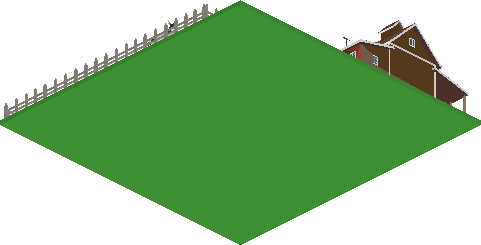
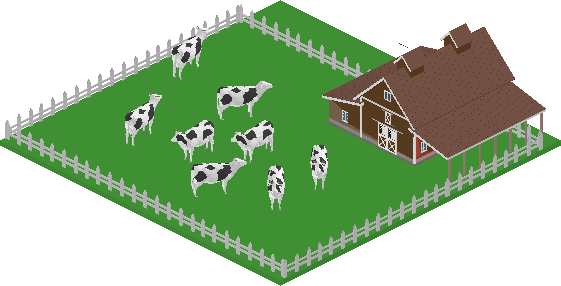
## Farm Sprites Fixed - Root cause: the old render script used matplotlib's projection for depth, which isn't a real camera distance — so the flat green ground drew *over* the barn, fences, and animals (making farms look worse each time). - I rewrote the render pipeline with a proper isometric camer
Please reload Expo Go and build/tap a farm to confirm it looks right on the map.

- Next Action Items:
  - **Restock Warning**: Flag in the Economy panel when a city factory will run out of resources next turn so you can react in time
  - **Recenter Button**: Add a quick button that snaps the camera back to your capital any time during a turn
  - **Building Info Tap**: Let players tap any building on the map to pop a quick info card, not just factories
  - **Factory Skyline**: Give active city factories a subtle puff of smoke so a busy economy feels alive

Note:
- Once you deploy your app to production, you can generate iOS and Android builds, then publish to the App/Play store.
- For iOS builds: you need an Apple developer account. After logging in you can generate a build, submit to TestFlight, and test on a real iOS device.
- For Android builds: we provide .APK and .AAB files so you can test on a real Android device.
- Your deployed app is also accessible on Expo Go via a QR code on the deployment panel.
- If you change code via the agent, redeploy and regenerate builds to reflect the latest changes (redeploy is free).

Emergent-Commit-Key: 24b981331cb72eab13af0696cf259c324961099299093cfbeab670246c7160bf

diff --git a/frontend/scripts/render_farms.py b/frontend/scripts/render_farms.py
@@ -1,26 +1,26 @@
 #!/usr/bin/env python3
-"""Render the world-map farm models (wheat/horse/bull) to 2D isometric sprites,
-matching the unit/building pipeline (ortho, elev=30, azim=-45). Vertex colours
-(COLOR_0) are kept as-is. Unlike city buildings, the ground field/base IS kept so
-each farm reads as a little plot sitting on the grass tile.
-Output: assets/images/farms/<name>.png
+"""Render the world-map farm models (wheat/horse/bull) to 2D isometric sprites.
+
+Unlike the older version, this uses a SELF-COMPUTED orthographic isometric camera
+(manual right/up/forward basis) so per-pixel depth is a real camera distance. That
+fixes the bug where matplotlib's projection "z" was not a reliable depth, letting the
+big flat green ground quad draw OVER the barn / fences / animals.
+
+The whole plot (green pasture + white fence + barn + animals) is kept so each farm
+reads exactly like the reference renders. Per-vertex colours (COLOR_0) are used as-is.
+Output: assets/images/farms/<name>.png  + meta.json (footprint fractions for 1x1 grid).
 """
 import os, json, struct
 import numpy as np
-import matplotlib
-matplotlib.use("Agg")
-import matplotlib.pyplot as plt
-from mpl_toolkits.mplot3d.art3d import Poly3DCollection
-from mpl_toolkits.mplot3d import proj3d
 from PIL import Image
 
 BASE = "/tmp/model"
 ASSETS = os.path.join(os.path.dirname(__file__), "..", "assets", "images", "farms")
 MODELS = ["wheat_farm", "horse_farm", "bullfarm"]
-# A few models have a big soil/ground quad that occludes their sparse detail geometry from the
-# top-down iso view; paint the whole plot its signature colour so it reads correctly.
-FIELD_COLOR = {"wheat_farm": [1.0, 0.78, 0.12]}
-NEUTRAL = np.array([0.62, 0.6, 0.56])
+
+ELEV, AZIM = 30.0, -45.0          # match the rest of the sprite pipeline (2:1 iso)
+PAD = 8                            # px padding around the model
+TARGET = 560                      # target longest screen dimension (px)
 
 COMP = {5120: ("b", 1), 5121: ("B", 1), 5122: ("h", 2), 5123: ("H", 2), 5125: ("I", 4), 5126: ("f", 4)}
 NUM = {"SCALAR": 1, "VEC2": 2, "VEC3": 3, "VEC4": 4}
@@ -52,7 +52,7 @@ def load(name):
         if "scale" in node: S = np.eye(4); S[0, 0], S[1, 1], S[2, 2] = node["scale"]; M = M @ S
         return M
 
-    tris = []; cols = []; hasc = []
+    tris = []; cols = []
     sc = d.get("scenes", [{}])[d.get("scene", 0)]
 
     def walk(ni, par):
@@ -64,61 +64,44 @@ def load(name):
                 col = acc(p["attributes"]["COLOR_0"])[:, :3] if has else np.ones((len(pos), 3))
                 wp = (wm @ np.column_stack([pos, np.ones(len(pos))]).T).T[:, :3]
                 idx = acc(p["indices"]).astype(int).ravel()
-                for f in range(0, len(idx), 3):
-                    a, b, c = idx[f], idx[f + 1], idx[f + 2]
-                    tris.append(wp[[a, b, c]]); cols.append(col[[a, b, c]].mean(0)); hasc.append(has)
+                a = idx[0::3]; b = idx[1::3]; c = idx[2::3]
+                n = min(len(a), len(b), len(c))
+                t = np.stack([wp[a[:n]], wp[b[:n]], wp[c[:n]]], axis=1)     # (F,3,3)
+                cc = (col[a[:n]] + col[b[:n]] + col[c[:n]]) / 3.0            # (F,3)
+                tris.append(t); cols.append(cc)
         for ch in node.get("children", []): walk(ch, wm)
 
     for ni in sc.get("nodes", []): walk(ni, np.eye(4))
-    tris = np.array(tris); cols = np.array(cols); hasc = np.array(hasc)
-    R = np.column_stack([tris.reshape(-1, 3)[:, 0], tris.reshape(-1, 3)[:, 2], tris.reshape(-1, 3)[:, 1]]).reshape(tris.shape)
-    mn = R.reshape(-1, 3).min(0); mx = R.reshape(-1, 3).max(0)
-    R[:, :, 0] -= (mn[0] + mx[0]) / 2; R[:, :, 1] -= (mn[1] + mx[1]) / 2; R[:, :, 2] -= mn[2]
-    return R, cols, hasc
+    tris = np.concatenate(tris, 0); cols = np.concatenate(cols, 0)
+    # gltf is Y-up; convert to Z-up (newX=x, newY=z, newZ=y) then rest on z=0
+    R = np.stack([tris[:, :, 0], tris[:, :, 2], tris[:, :, 1]], axis=2)
+    flat = R.reshape(-1, 3)
+    mn = flat.min(0); mx = flat.max(0)
+    R[:, :, 0] -= (mn[0] + mx[0]) / 2
+    R[:, :, 1] -= (mn[1] + mx[1]) / 2
+    R[:, :, 2] -= mn[2]
+    return R, cols
 
 
-def is_blank(c):
-    return bool(np.all(np.abs(c - 0.8) < 0.03))
+def camera_basis():
+    er, ar = np.radians(ELEV), np.radians(AZIM)
+    cam = np.array([np.cos(er) * np.cos(ar), np.cos(er) * np.sin(ar), np.sin(er)])  # points toward camera
+    cam /= np.linalg.norm(cam)
+    right = np.cross(np.array([0.0, 0.0, 1.0]), cam); right /= np.linalg.norm(right)
+    up = np.cross(cam, right); up /= np.linalg.norm(up)
+    return right, up, cam
 
 
-def project(R, L):
-    """Return per-vertex pixel coords (top-left origin) + depth, plus the axes/fig for the
-    footprint helper. Uses matplotlib ONLY for the ortho iso projection matrix."""
-    fig = plt.figure(figsize=(5, 5), dpi=120)
-    ax = fig.add_axes([0, 0, 1, 1], projection="3d")
-    ax.set_xlim(-L / 2, L / 2); ax.set_ylim(-L / 2, L / 2); ax.set_zlim(0, L)
-    ax.set_box_aspect((1, 1, 1)); ax.view_init(elev=30, azim=-45); ax.set_axis_off()
-    try:
-        ax.set_proj_type("ortho")  # 2:1 isometric to match the world grid
-    except Exception:
-        pass
-    fig.canvas.draw()
-    M = ax.get_proj()
-    W, H = fig.canvas.get_width_height()
-    V = R.reshape(-1, 3)
-    xs, ys, zs = proj3d.proj_transform(V[:, 0], V[:, 1], V[:, 2], M)
-    disp = ax.transData.transform(np.column_stack([xs, ys]))
-    px = disp[:, 0]; py = H - disp[:, 1]  # top-left origin
-    P = np.column_stack([px, py]).reshape(-1, 3, 2)
-    Z = zs.reshape(-1, 3)
-    return P, Z, W, H, ax, fig
-
-
-def tri_colors(R, cols, hasc, override=None):
+def tri_colors(R, cols):
     n = np.cross(R[:, 1] - R[:, 0], R[:, 2] - R[:, 0])
     ln = np.linalg.norm(n, axis=1); ln[ln == 0] = 1.0
-    bright = 0.68 + 0.32 * np.abs((n / ln[:, None]) @ LIGHT)  # |n·light|: winding-independent
-    if override is not None:
-        base = np.tile(np.array(override, float), (len(cols), 1))
-    else:
-        blank = np.array([(not h) or is_blank(c) for c, h in zip(cols, hasc)])
-        base = np.where(blank[:, None], NEUTRAL, np.array(cols))
-    rgb = np.clip(base * bright[:, None], 0, 1)
+    bright = 0.72 + 0.28 * np.abs((n / ln[:, None]) @ LIGHT)  # gentle, winding-independent shading
+    rgb = np.clip(cols * bright[:, None], 0, 1)
     return (rgb * 255).astype(np.uint8)
 
 
 def rasterize(P, Z, rgb, W, H):
-    """Flat-shaded triangle rasteriser with a real z-buffer (nearer = larger projected z)."""
+    """Flat-shaded triangle rasteriser with a real z-buffer (nearer camera = larger depth)."""
     img = np.zeros((H, W, 4), np.uint8)
     zbuf = np.full((H, W), -np.inf)
     for i in range(len(P)):
@@ -150,33 +133,39 @@ def rasterize(P, Z, rgb, W, H):
     return img
 
 
-def footprint_px(ax, H, R):
-    """Pixel bounds (top-left origin) of the model's GROUND plot (low-z XY extent)."""
+os.makedirs(ASSETS, exist_ok=True)
+right, up, cam = camera_basis()
+meta = {}
+for name in MODELS:
+    R, cols = load(name)
     flat = R.reshape(-1, 3)
+    sx = flat @ right; sy = flat @ up
+    sxmin, sxmax = sx.min(), sx.max(); symin, symax = sy.min(), sy.max()
+    S = TARGET / max(sxmax - sxmin, symax - symin)
+    W = int(np.ceil((sxmax - sxmin) * S)) + 2 * PAD
+    H = int(np.ceil((symax - symin) * S)) + 2 * PAD
+
+    def to_px(pts):  # world (N,3) -> pixel (N,2), top-left origin
+        vx = pts @ right; vy = pts @ up
+        return np.column_stack([(vx - sxmin) * S + PAD, (symax - vy) * S + PAD])
+
+    P = to_px(R.reshape(-1, 3)).reshape(-1, 3, 2)
+    Z = (R.reshape(-1, 3) @ cam).reshape(-1, 3)   # camera depth (larger = nearer)
+    rgb = tri_colors(R, cols)
+    img = rasterize(P, Z, rgb, W, H)
+
+    # footprint = the ground plot (green field / soil base): low-z XY extent
     zmax = float(flat[:, 2].max()) or 1.0
     ground = flat[flat[:, 2] <= 0.12 * zmax]
     if len(ground) < 4:
         ground = flat
-    x0, x1 = ground[:, 0].min(), ground[:, 0].max()
-    y0, y1 = ground[:, 1].min(), ground[:, 1].max()
-    corners = np.array([[x0, y0, 0], [x1, y0, 0], [x1, y1, 0], [x0, y1, 0]], float)
-    xs, ys, _ = proj3d.proj_transform(corners[:, 0], corners[:, 1], corners[:, 2], ax.get_proj())
-    disp = ax.transData.transform(np.column_stack([xs, ys]))
-    px = disp[:, 0]; py = H - disp[:, 1]
-    return px.min(), px.max(), py.min(), py.max()
+    gx0, gx1 = ground[:, 0].min(), ground[:, 0].max()
+    gy0, gy1 = ground[:, 1].min(), ground[:, 1].max()
+    corners = np.array([[gx0, gy0, 0], [gx1, gy0, 0], [gx1, gy1, 0], [gx0, gy1, 0]], float)
+    cpx = to_px(corners)
+    fx0, fx1 = cpx[:, 0].min(), cpx[:, 0].max()
+    fy0, fy1 = cpx[:, 1].min(), cpx[:, 1].max()
 
-
-os.makedirs(ASSETS, exist_ok=True)
-meta = {}
-for name in MODELS:
-    R, cols, hasc = load(name)
-    flat = R.reshape(-1, 3)
-    L = max(2 * np.abs(flat[:, :2]).max(), flat[:, 2].max()) * 1.05
-    P, Z, W, H, ax, fig = project(R, L)
-    rgb = tri_colors(R, cols, hasc, FIELD_COLOR.get(name))
-    img = rasterize(P, Z, rgb, W, H)
-    fx0, fx1, fy0, fy1 = footprint_px(ax, H, R)
-    plt.close(fig)
     im = Image.fromarray(img, "RGBA")
     bb = im.getbbox()  # (left, upper, right, lower)
     im.crop(bb).save(os.path.join(ASSETS, name + ".png"))
@@ -185,6 +174,6 @@ for name in MODELS:
     fcx = ((fx0 + fx1) / 2 - bb[0]) / cw
     fcy = ((fy0 + fy1) / 2 - bb[1]) / ch
     meta[name] = {"w": cw, "h": ch, "footW": round(footW, 4), "fcx": round(fcx, 4), "fcy": round(fcy, 4)}
-    print(f"{name}: crop={cw}x{ch} footW={footW:.3f} fcx={fcx:.3f} fcy={fcy:.3f}")
+    print(f"{name}: crop={cw}x{ch} tris={len(P)} footW={footW:.3f} fcx={fcx:.3f} fcy={fcy:.3f}")
 json.dump(meta, open(os.path.join(ASSETS, "meta.json"), "w"), indent=1)
 print("done")

diff --git a/memory/PRD.md b/memory/PRD.md
@@ -112,6 +112,9 @@ Build a game similar to The Battle of Polytopia. Client-side, local persistence.
 - Merchant & Merchant Ship trading: 4/8 inventory slots, load goods, set prices, trade sign for other players; bots buy-only, can't attack merchants.
 - Ore-site research (coal/iron/gold) revealing mine sites.
 
+## Engine verification
+- **Farm sprites fixed (depth bug)** — the previous `render_farms.py` used matplotlib's projection matrix for per-pixel depth, which is NOT a reliable camera distance, so the large flat green ground quad drew OVER the barn/fences/animals (farms looked like an empty green diamond). Rewrote `scripts/render_farms.py` to drop matplotlib entirely and use a SELF-COMPUTED orthographic isometric camera (manual right/up/forward basis, ELEV=30/AZIM=-45); depth = `vertex·cam` (larger = nearer) feeds the existing z-buffer rasteriser. Removed the flat `FIELD_COLOR` wheat override (raw per-vertex colours now used) so the golden wheat field + soil border render like the reference. Full plot kept (green pasture + white fence + barn + animals) at a 1×1 cell footprint. Re-generated `assets/images/farms/{wheat_farm,horse_farm,bullfarm}.png` + `meta.json` (footW≈0.998, centred) — `GameMap.tsx` FARM_SPRITES/FARM_META unchanged. Verified: horse & bull farms now show barn+fence+animals matching the user's reference images; wheat shows the golden field. `node scripts/engine_test.js` still 200/200; app boots to menu.
+
 ## Backlog / Next
 - Build the goods economy + resource top-bar (foundation for buildings, unit costs, trading).
 - Then buildings & per-turn production, then naval + upgrades, then merchant trading UI.
